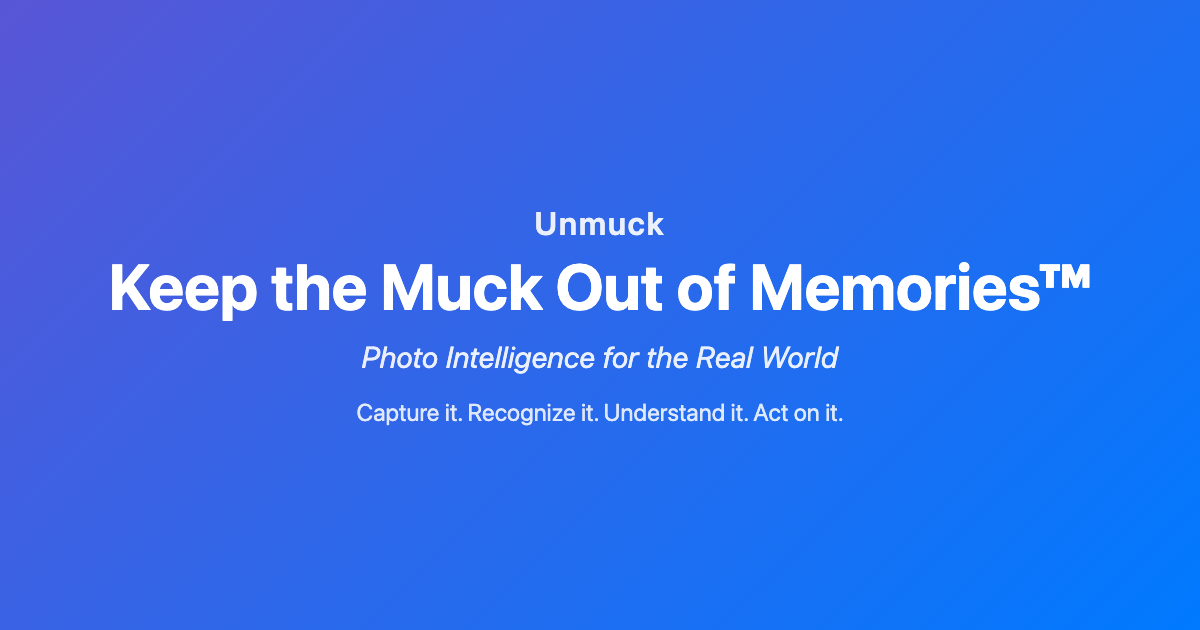
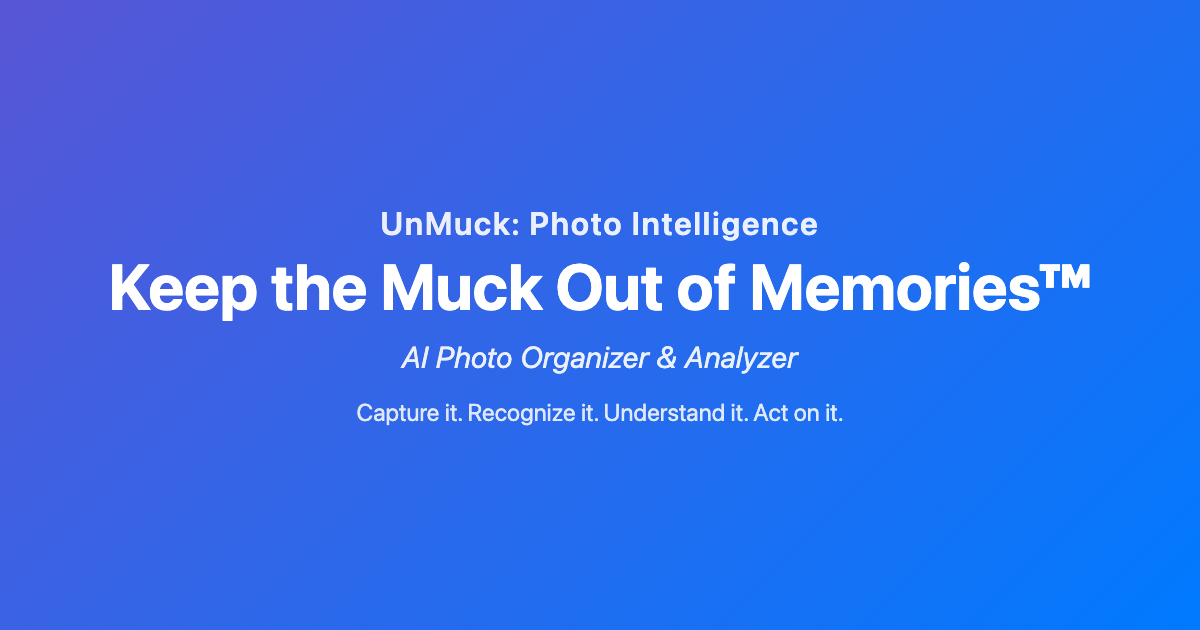
Align site with new App Store name: UnMuck: Photo Intelligence
- index title/meta/og/JSON-LD and hero brand line carry the store name
  and subtitle (AI Photo Organizer & Analyzer)
- Guide and support page titles use UnMuck
- og-image re-rendered with the new name; secondary line is the store
  subtitle instead of repeating Photo Intelligence

Body prose and device-UI references (Settings -> Unmuck, iCloud Drive
folder) intentionally keep "Unmuck" -- that's the on-device bundle
display name and Files-app folder name until the app binary changes.

Changed region(s): [[0.2775, 0.5429, 0.7092, 0.6032], [0.3083, 0.3317, 0.6783, 0.3921]]

diff --git a/index.html b/index.html
@@ -3,9 +3,9 @@
 <head>
     <meta charset="UTF-8">
     <meta name="viewport" content="width=device-width, initial-scale=1.0">
-    <title>Unmuck - Keep the Muck Out of Memories</title>
-    <meta name="description" content="A separate camera for task photos. Unmuck captures receipts, meals, and documents, reads them with AI, and keeps your Camera Roll memories-only.">
-    <meta property="og:title" content="Unmuck - Keep the Muck Out of Memories">
+    <title>UnMuck: Photo Intelligence - AI Photo Organizer & Analyzer</title>
+    <meta name="description" content="UnMuck is an AI photo organizer and analyzer: a separate camera for receipts, meals, and documents that reads them with AI and keeps your Camera Roll memories-only.">
+    <meta property="og:title" content="UnMuck: Photo Intelligence - AI Photo Organizer & Analyzer">
     <meta property="og:description" content="A separate camera for task photos. Unmuck captures receipts, meals, and documents, reads them with AI, and keeps your Camera Roll memories-only.">
     <meta property="og:url" content="https://unmuck.app/">
     <meta property="og:type" content="website">
@@ -22,7 +22,7 @@
     {
       "@context": "https://schema.org",
       "@type": "SoftwareApplication",
-      "name": "Unmuck",
+      "name": "UnMuck: Photo Intelligence",
       "operatingSystem": "iOS 18.0+",
       "applicationCategory": "PhotographyApplication",
       "offers": {
@@ -477,7 +477,7 @@
 </head>
 <body>
     <header class="hero">
-        <p style="font-size: 1.1rem; font-weight: 600; letter-spacing: 0.05em; margin: 0 0 0.25rem 0; opacity: 0.9;">Unmuck</p>
+        <p style="font-size: 1.1rem; font-weight: 600; letter-spacing: 0.05em; margin: 0 0 0.25rem 0; opacity: 0.9;">UnMuck: Photo Intelligence</p>
         <h1>Keep the Muck Out of Memories™</h1>
         <p class="subtitle">A separate camera for receipts, meals, slides, and serial numbers — with AI that reads them. Your Camera Roll stays memories-only.</p>
 

diff --git a/stats.html b/stats.html
@@ -3,9 +3,9 @@
 <head>
     <meta charset="UTF-8">
     <meta name="viewport" content="width=device-width, initial-scale=1.0">
-    <title>The Stats Tab - Unmuck Guide</title>
+    <title>The Stats Tab - UnMuck Guide</title>
     <meta name="description" content="Learn how the Stats tab works in Unmuck. See when, where, and how you shoot with interactive charts, heatmaps, and lifetime activity metrics. All on-device, no AI credits needed.">
-    <meta property="og:title" content="The Stats Tab - Unmuck Guide">
+    <meta property="og:title" content="The Stats Tab - UnMuck Guide">
     <meta property="og:description" content="Visual analytics for your Camera Roll. Charts, heatmaps, and lifetime metrics — all on-device.">
     <meta property="og:url" content="https://unmuck.app/stats.html">
     <meta property="og:type" content="website">

diff --git a/snap.html b/snap.html
@@ -3,9 +3,9 @@
 <head>
     <meta charset="UTF-8">
     <meta name="viewport" content="width=device-width, initial-scale=1.0">
-    <title>The Capture Tab - Unmuck Guide</title>
+    <title>The Capture Tab - UnMuck Guide</title>
     <meta name="description" content="Learn how the Capture tab works in Unmuck. 13 capture intents, Record mode for audio, home screen widget, on-device AI, and generative AI analysis.">
-    <meta property="og:title" content="The Capture Tab - Unmuck Guide">
+    <meta property="og:title" content="The Capture Tab - UnMuck Guide">
     <meta property="og:description" content="Learn how the Capture tab works in Unmuck. 13 capture intents, audio as a mode, a home screen widget, and on-device AI.">
     <meta property="og:url" content="https://unmuck.app/snap.html">
     <meta property="og:type" content="website">

diff --git a/folders.html b/folders.html
@@ -3,9 +3,9 @@
 <head>
     <meta charset="UTF-8">
     <meta name="viewport" content="width=device-width, initial-scale=1.0">
-    <title>The Folders Tab - Unmuck Guide</title>
+    <title>The Folders Tab - UnMuck Guide</title>
     <meta name="description" content="Learn how the Folders tab works in Unmuck. Smart folders, time and location filters, search, nutrition tracking, and custom folders. Everything organized, nothing lost.">
-    <meta property="og:title" content="The Folders Tab - Unmuck Guide">
+    <meta property="og:title" content="The Folders Tab - UnMuck Guide">
     <meta property="og:description" content="Learn how the Folders tab works in Unmuck. Smart folders, filters, search, and custom folders.">
     <meta property="og:url" content="https://unmuck.app/folders.html">
     <meta property="og:type" content="website">

diff --git a/cleanup.html b/cleanup.html
@@ -3,9 +3,9 @@
 <head>
     <meta charset="UTF-8">
     <meta name="viewport" content="width=device-width, initial-scale=1.0">
-    <title>The Clean Up Tab - Unmuck Guide</title>
+    <title>The Clean Up Tab - UnMuck Guide</title>
     <meta name="description" content="Learn how the Clean Up tab works in Unmuck. Triage your Camera Roll — delete, move, organize, and find the best photo with AI. Keep the memories, remove the muck.">
-    <meta property="og:title" content="The Clean Up Tab - Unmuck Guide">
+    <meta property="og:title" content="The Clean Up Tab - UnMuck Guide">
     <meta property="og:description" content="Triage your Camera Roll. Delete, move, organize, and find the best photo with AI.">
     <meta property="og:url" content="https://unmuck.app/cleanup.html">
     <meta property="og:type" content="website">

diff --git a/support.html b/support.html
@@ -3,9 +3,9 @@
 <head>
     <meta charset="UTF-8">
     <meta name="viewport" content="width=device-width, initial-scale=1.0">
-    <title>Support - Unmuck</title>
+    <title>Support - UnMuck</title>
     <meta name="description" content="Get help with Unmuck. FAQs on capture modes, AI analysis, folders, Camera Roll cleanup, privacy, and pricing. Contact support@unmuck.app.">
-    <meta property="og:title" content="Support - Unmuck">
+    <meta property="og:title" content="Support - UnMuck">
     <meta property="og:description" content="Get help with Unmuck. FAQs on capture modes, AI analysis, folders, Camera Roll cleanup, privacy, and pricing.">
     <meta property="og:url" content="https://unmuck.app/support.html">
     <meta property="og:type" content="website">

diff --git a/og-image.html b/og-image.html
@@ -47,9 +47,9 @@
 </style>
 </head>
 <body>
-  <div class="app-name">Unmuck</div>
+  <div class="app-name">UnMuck: Photo Intelligence</div>
   <div class="tagline">Keep the Muck Out of Memories™</div>
-  <div class="secondary">Photo Intelligence for the Real World</div>
+  <div class="secondary">AI Photo Organizer &amp; Analyzer</div>
   <div class="subtitle">Capture it. Recognize it. Understand it. Act on it.</div>
 </body>
 </html>
